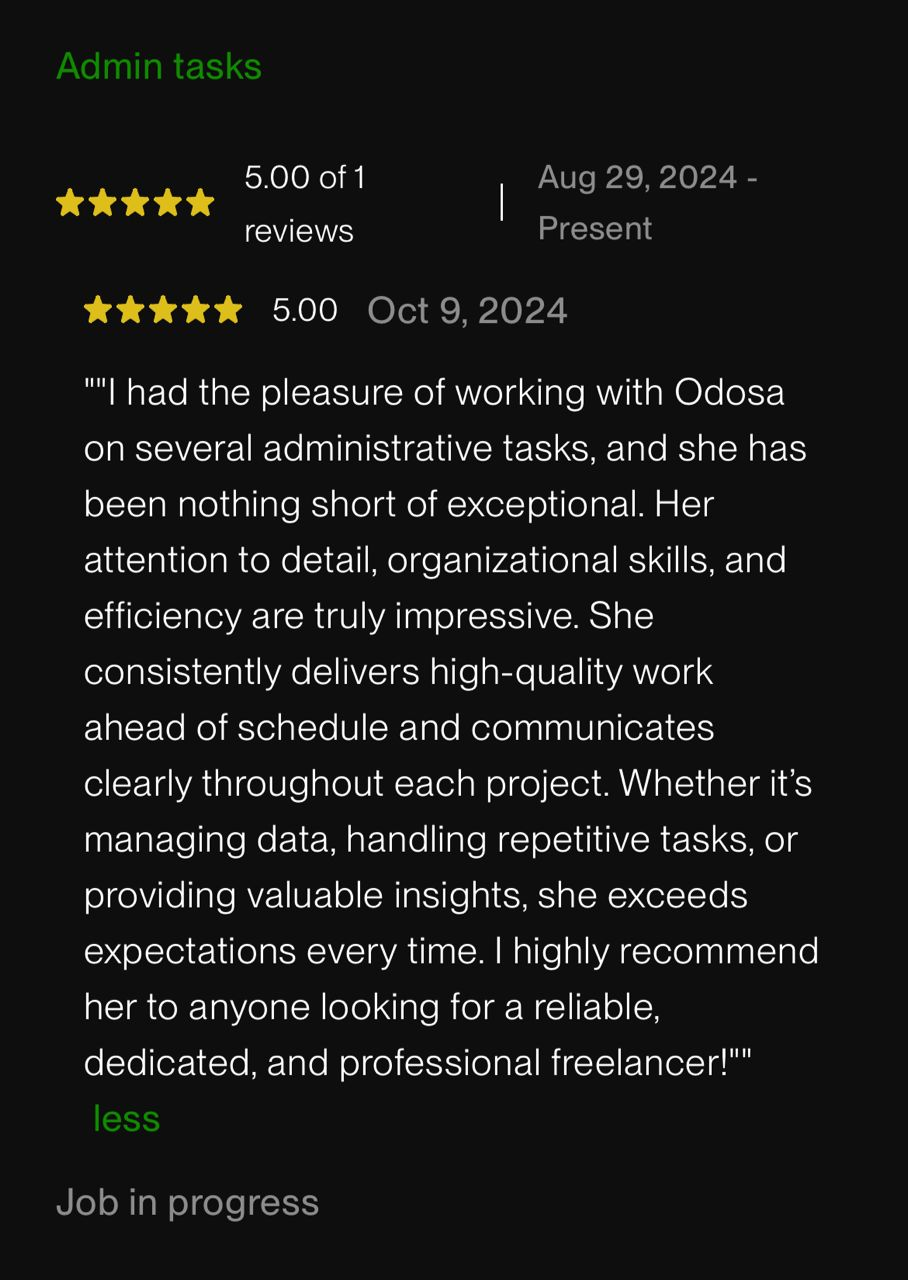
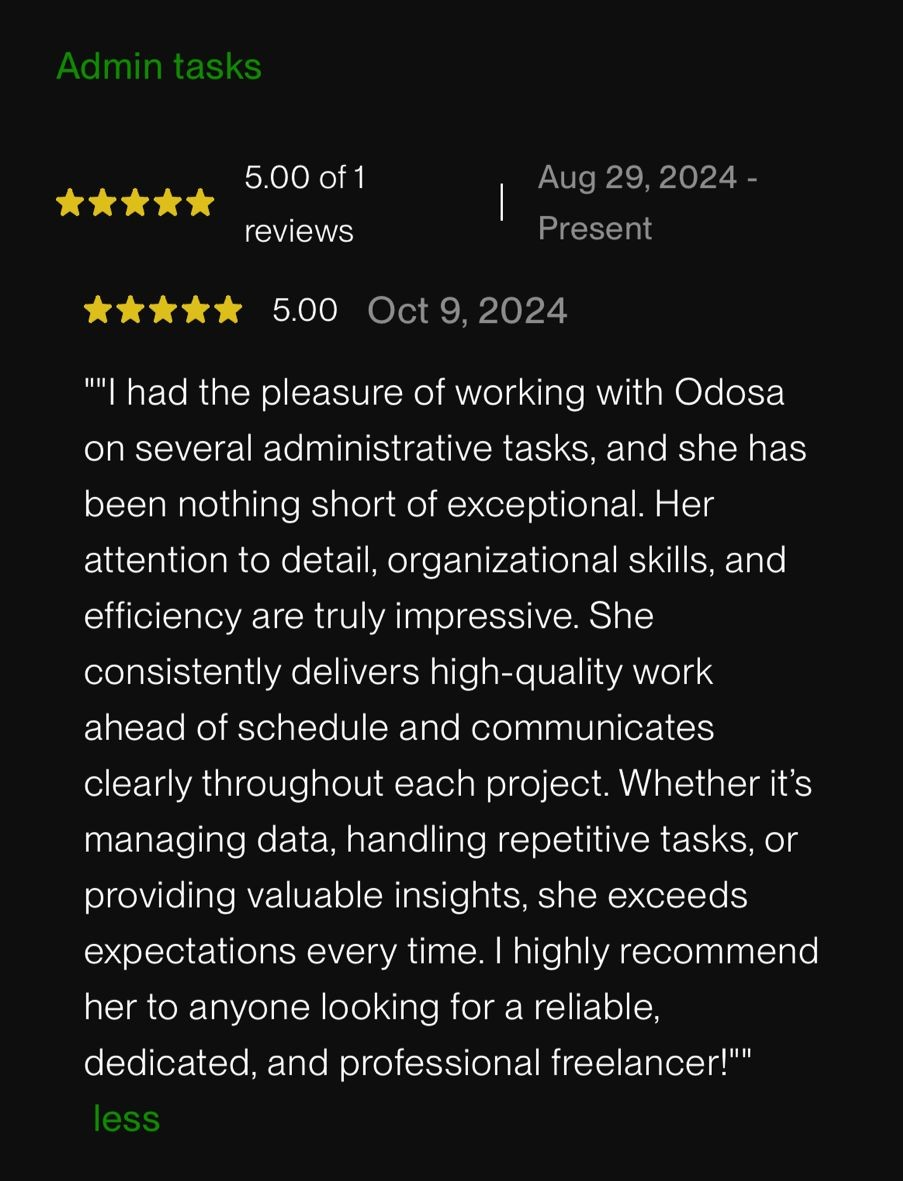
crop testimonial photos and update founder image to .webp format

diff --git a/src/pages/OdosaEgharevba.tsx b/src/pages/OdosaEgharevba.tsx
@@ -18,7 +18,7 @@ const OdosaEgharevba = () => {
             <div className="max-w-5xl mx-auto flex flex-col md:flex-row items-center gap-8">
               <div className="w-full md:w-1/2">
                 <img
-                  src="/images/founder.JPG"
+                  src="/images/founder.webp"
                   alt="Odosa Egharevba"
                   className="rounded-2xl shadow-lg w-full"
                 />
